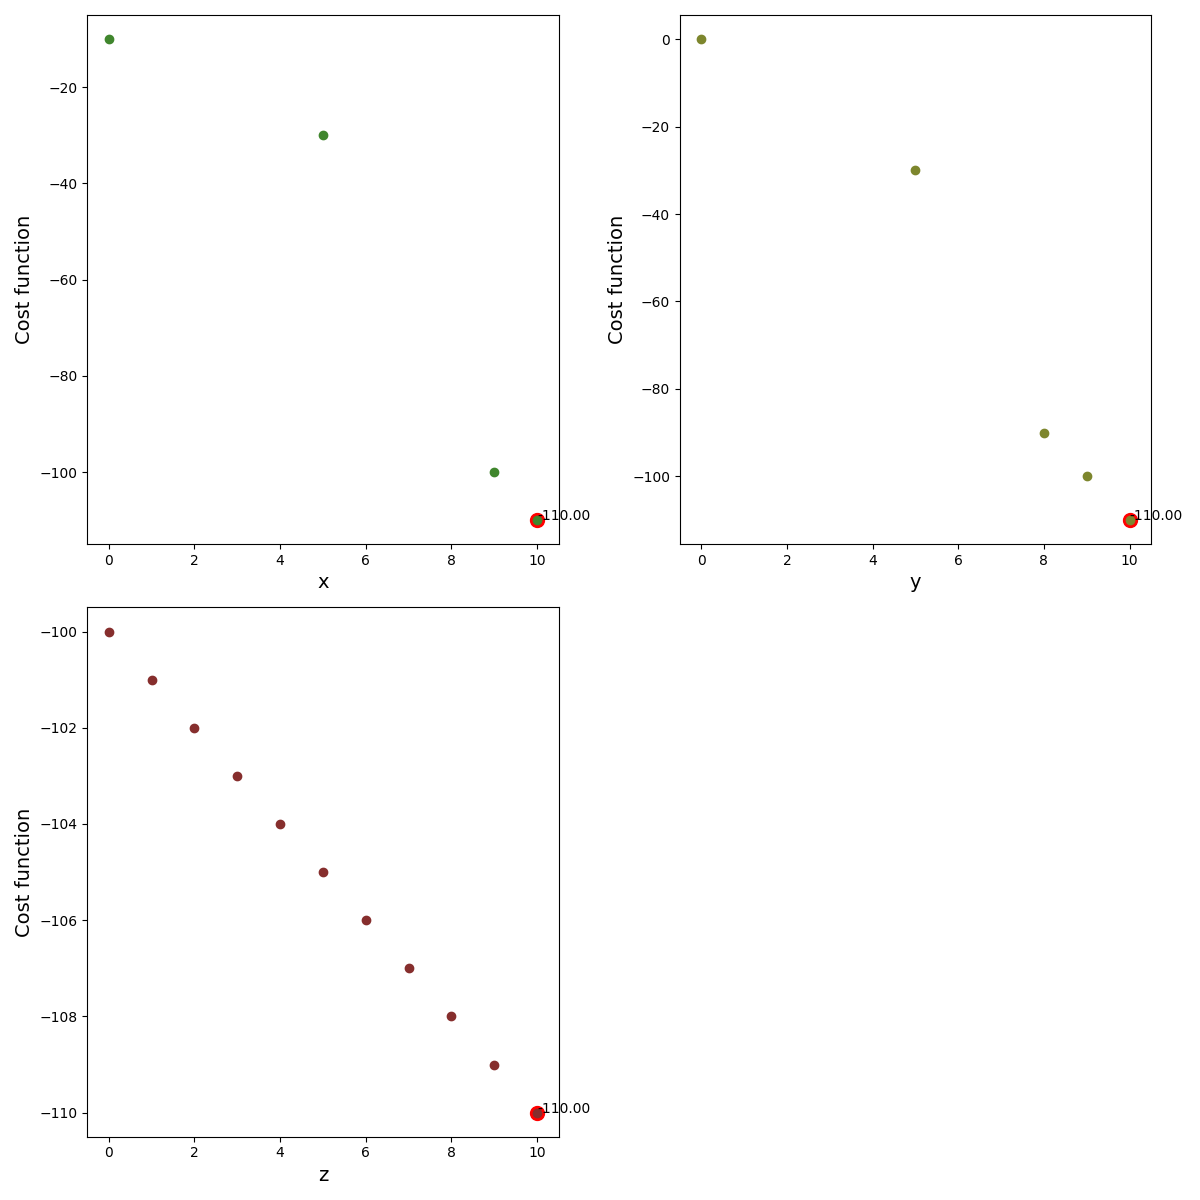
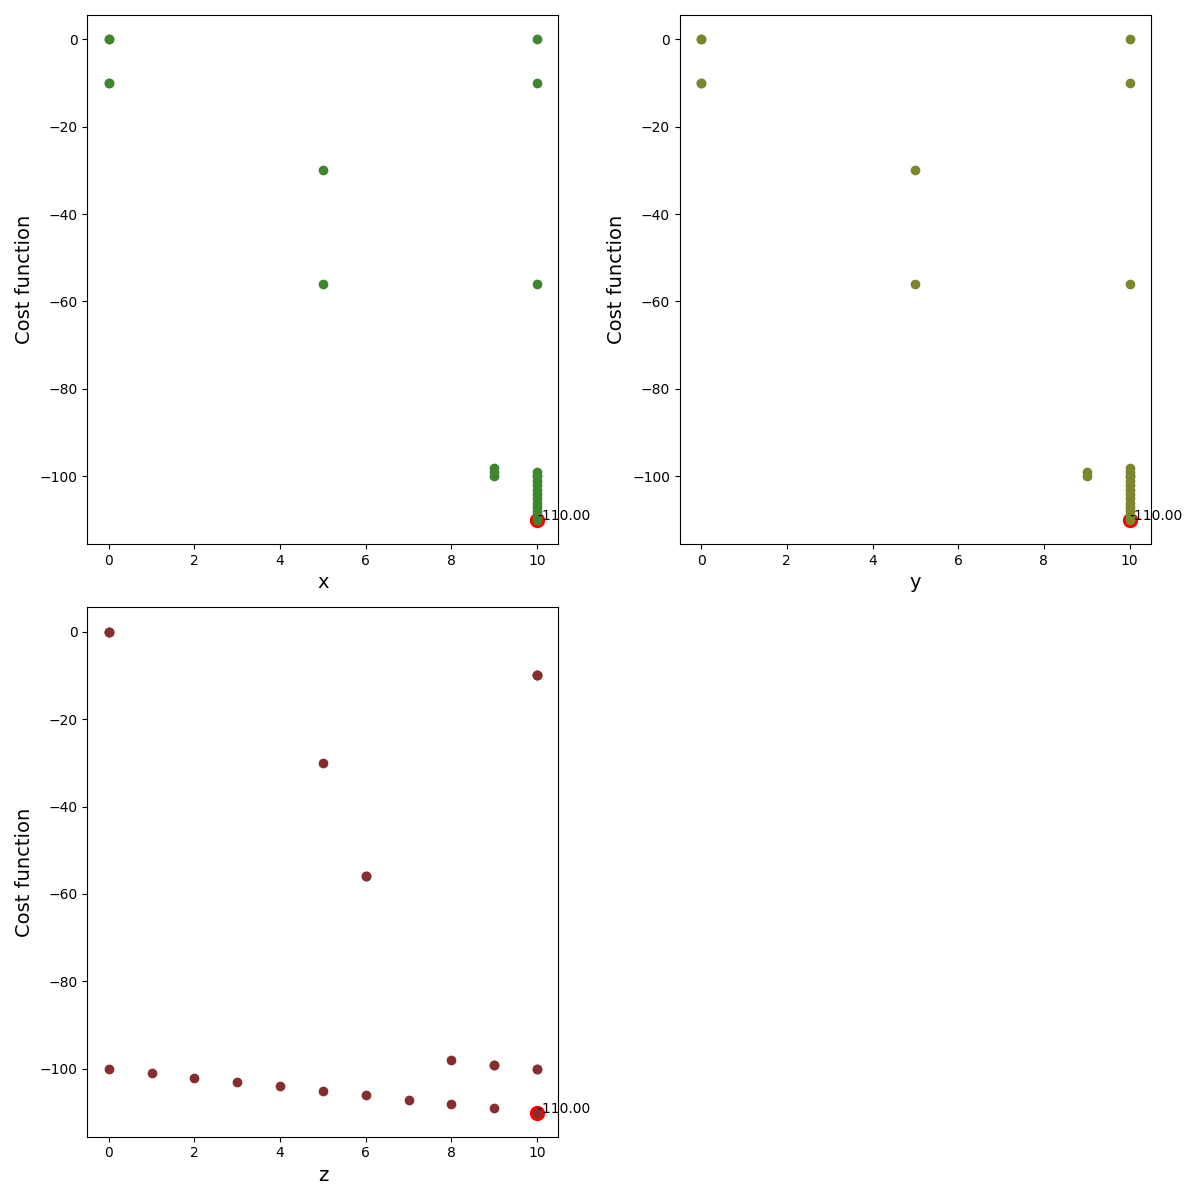
don't pick only minimums for correlation plot

diff --git a/plecoptera/plot.py b/plecoptera/plot.py
@@ -33,6 +33,12 @@ class Renderer:
         utility_columns = (names.Cost, names.InvalidParameterCombination)
         return list(filter(lambda x: x not in utility_columns, self.__df.columns))
 
+    @property
+    @functools.cache
+    def __cost_bounds(self) -> typing.List[str]:
+        cost = self.__df[names.Cost]
+        return [cost.min(), cost.max()]
+
     def correlations(self):
         column_names = self.__parameter_column_names
 
@@ -64,16 +70,14 @@ class Renderer:
         fig.savefig(figure_path)
 
     def __render_correlation(self, ax: matplotlib.axes.Axes, col_name: str):
-        df = pd.DataFrame({col_name: self.__df[col_name], names.Cost: self.__df[names.Cost]})
-
-        # select the minimums
-        data = df.groupby(col_name)[names.Cost].agg(lambda arg: arg.min()).reset_index()
+        data = pd.DataFrame({col_name: self.__df[col_name], names.Cost: self.__df[names.Cost]})
 
         color = ColorHash(col_name).hex
         ax.plot(data[col_name], data[names.Cost], linewidth=0, marker='o', color=color)
 
         ax.set_xlabel(col_name, fontsize=14)
         ax.set_ylabel('Cost function', fontsize=14)
+        ax.set_ybound(*self.__cost_bounds)
 
         # draw point with optimum
         opt_arg = self.__report.optimum_argument(col_name)

diff --git a/plecoptera/main.py b/plecoptera/main.py
@@ -33,6 +33,7 @@ def main():
         max_evaluations=settings.max_evaluations,
         max_iterations=settings.max_iterations,
         rand_seed=int(time.mktime(datetime.now().timetuple())),
+        init_strategy="all_corners",
     )
     alg = rbfopt.RbfoptAlgorithm(settings, bb)
 
